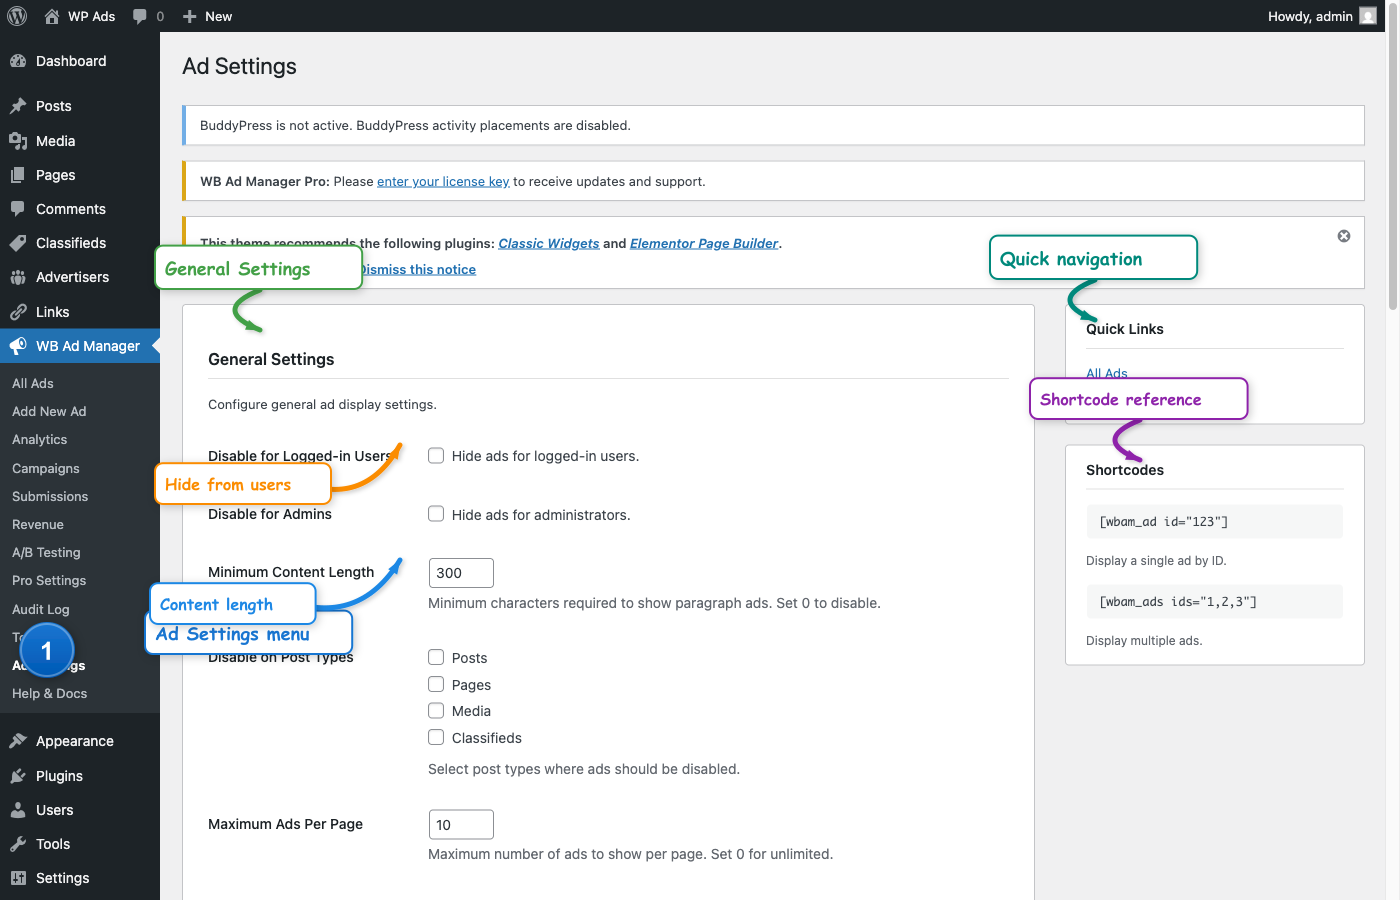
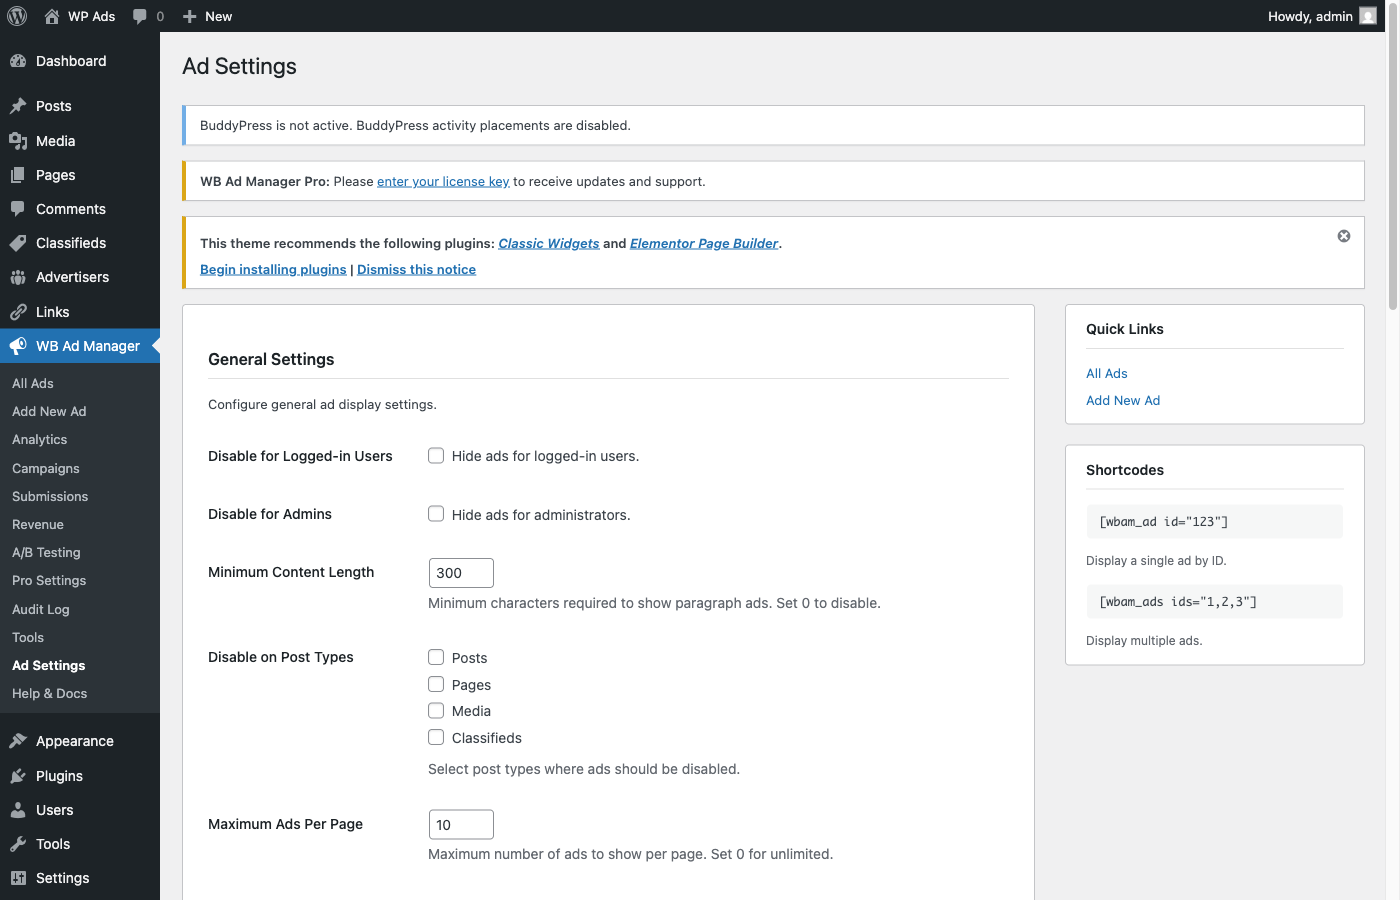
docs: Add link management and ad type editor screenshots
- Add 13 screenshots covering site owner features
- Update link management documentation with screenshots for:
  - Link add form (URL config, cloaking, SEO attributes)
  - Link analytics dashboard (trends, types, top performers)
  - Link partnerships page (inquiry management)
- Update ad types documentation with screenshots for:
  - Image ad editor
  - HTML/Code ad editor
- Add screenshots for:
  - Ad settings
  - Link keywords (auto-linking)
  - Link health monitoring
  - Link import (CSV)
  - Links list

diff --git a/docs/for-site-owners/02-link-management.md b/docs/for-site-owners/02-link-management.md
@@ -23,6 +23,9 @@ Instead of pasting raw URLs throughout your site, managed links offer:
 
 ## Creating Managed Links
 
+![Link Add Form](../images/for-site-owners/link-add-form.png)
+*The Add New Link form showing URL configuration, cloaking options, and SEO attributes*
+
 ### Step-by-Step
 
 1. Go to **WB Ad Manager → Links**
@@ -138,6 +141,9 @@ Allow visitors to request link placements on your site.
 
 ### Managing Partnership Requests
 
+![Link Partnerships](../images/for-site-owners/link-partnerships.png)
+*The Partnership Inquiries page with status filters, search, and inquiry management*
+
 1. Go to **WB Ad Manager → Partnerships**
 2. View pending requests
 3. Review details:
@@ -158,6 +164,9 @@ If approved: Link created → Guest notified
 ---
 
 ## Tracking Link Performance
+
+![Link Analytics](../images/for-site-owners/link-analytics.png)
+*The Link Analytics dashboard showing click trends, link types distribution, and top performers*
 
 ### Viewing Click Data
 

diff --git a/docs/for-site-owners/03-ad-types.md b/docs/for-site-owners/03-ad-types.md
@@ -20,6 +20,9 @@ WB Ad Manager supports five ad types. Choose based on what you're displaying.
 
 Display banner images with click tracking.
 
+![Image Ad Editor](../images/for-site-owners/ad-editor-image-type.png)
+*The Image Ad editor showing image upload, destination URL, and tracking options*
+
 ### Settings
 
 | Field | Description |
@@ -41,6 +44,9 @@ Display banner images with click tracking.
 ## Code Ad
 
 Insert HTML, JavaScript, or ad network code.
+
+![HTML/Code Ad Editor](../images/for-site-owners/ad-editor-html-type.png)
+*The Code Ad editor showing the code input area and wrapper options*
 
 ### Settings
 
